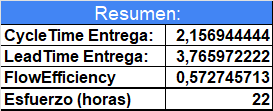
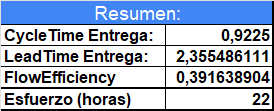
Update Metricas

diff --git a/README.md b/README.md
@@ -1348,13 +1348,14 @@ Para que correspondan con la realidad
 ---------------------------------------------------------------------------------------------------
 
 
-## [Métricas] (#indice) 
+## [Métricas](#indice) 
 
 Durante todas las entregas fuimos relevando los diferentes tiempos para realizar los cálculos de métricas necesarios para esta entrega. 
 Las evidencias de las entregas anteriores se encuentran en la carpeta de Esfuerzo de tareas y luego las subcarpetas de cada entrega.
+
 Para esta entrega creamos una subcarpeta:
 
-![Entrega 4](./Esfuerzo%20de%20Tareas/Entrega%204/)
+[Entrega 4](./Esfuerzo%20de%20Tareas/Entrega%204/)
 
 donde colocamos los archivos excel necesarios (ya que también adjuntamos PDF como evidencia en las entregas anteriores) y elaboramos un excel resumen donde cada etapa se encuentra en su hoja correspondiente. 
 
@@ -1364,7 +1365,7 @@ Solo se toman en cuenta aquellas referidas al proceso de Ingeniería de cada eta
 
 Si bien la creación de documentación o realización de ceremonias es importante para mejorar nuestro preceso ágil, no las tomamos en cuenta en esta etapa, sobre todo porque es de aprendizaje y le interesa al equipo solamente. Por lo anterior, de cada archivo de tiempos, solo nos quedamos con las tareas seleccionadas y correspondientes a la elaboración del producto que cumple las necesidades del cliente.
 
-## Definimos los criterios generales:## 
+## Definimos los criterios generales:
 CycleTime: Tiempo estimado, en días en que una tarea comienza para su desarrollo y se entrega. Comienza su desarrollo cuando pasa del TODO a Requirements  Definition o Análisis según la entrega. 
 Fórmula de cálculo = - Fecha de Entrega (Done)- Fecha de inicio Doing/RD/Análisis (Fecha de inicio en el Doing, Requirement Definition o Análisis según el caso)
 
@@ -1384,11 +1385,7 @@ PAra los casos en que el LeadTime puede ser 0, por ser menor a un día predefini
 Observamos  un CycleTime de la entrega de 0,875
 Observamos un LeadTime de la entrega de 3
 
-Resumen:	
-CycleTime Entrega: 	2,156944444
-LeadTime Entrega:	3,765972222
-FlowEfficiency	0,572745713
-Esfuerzo (horas)	22
+![Entrega 4](./img/metricaEntrega1.png)
 
 
 Vemos que la mayoría de las tareas que se utilizan para el indicador son de Gestión, por lo que solo sirven las mediciones de los últimos días.
@@ -1401,9 +1398,7 @@ Para la entrega 2 nos encontramos con la mejora en el registro de Clockify ya qu
 
 Mejoramos nuestras métricas:
 Resumen:	
-CycleTime Entrega: 	2,156944444
-LeadTime Entrega:	3
-FlowEfficiency	0,718981481
+![Entrega 4](./img/metricaEntrega2.png)
 
 **Entrega 3**
 
@@ -1414,16 +1409,14 @@ Las tareas restantes fueron transferidas a la entrega 4.
 Vemos que se incremnetaron las tareas sí como el esfuerzo de la misma. 
 
 Resumen:	
-CycleTime Entrega: 	12
-LeadTime Entrega:	12
-FlowEfficiency	    1
-Total esfuerzo: 	39,1
+
+![Entrega 4](./img/metricaEntrega3.png)
 
 Si bien vemos que según la heurísitca de referencia, mejoramos el indicadodr, fue a un costo mayor, prque no entregamos el valor esperado al final de la tercer entrega y lo completamos en esta. 
 
-En el archivo:
+En el archivo excel:
 
-![Entrega 4](./Esfuerzo%20de%20Tareas/Entrega%204/Metricas%20del%20Proyecto.xlsx)  se encuentra el resumen de cada etapa. 
+[Entrega 4](./Esfuerzo%20de%20Tareas/Entrega%204/Metricas%20del%20Proyecto.xlsx)  se encuentra el resumen de cada etapa. 
 
 
 
